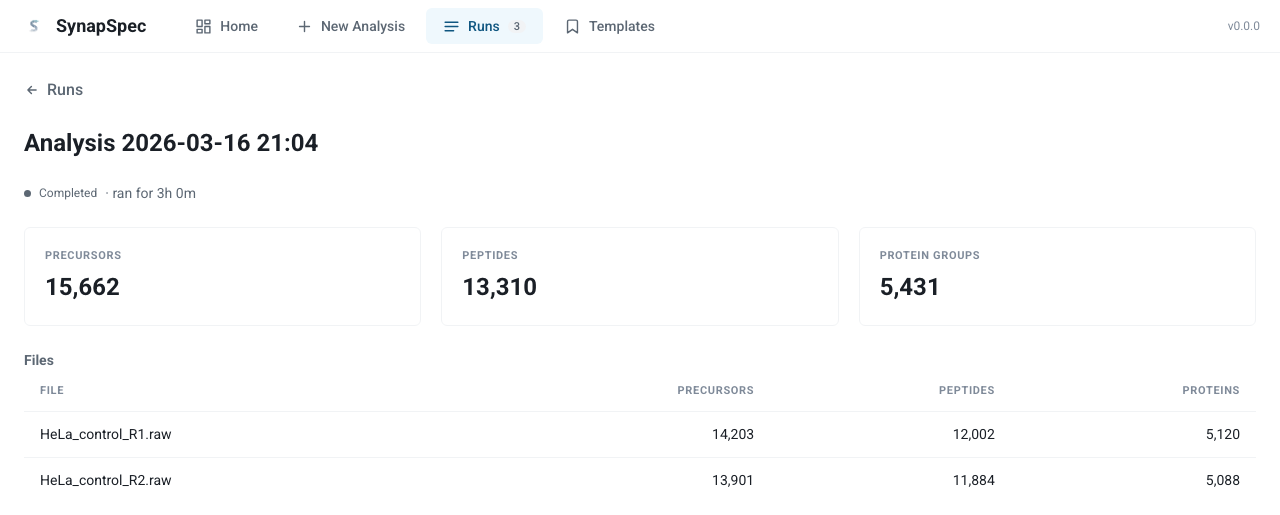
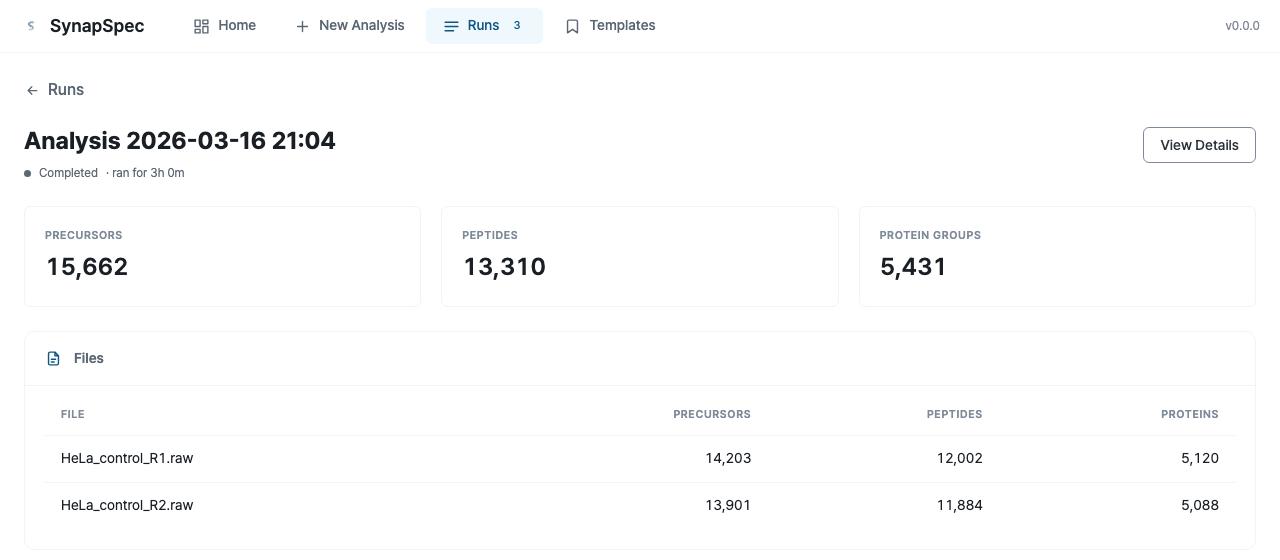
feat: recapture the hero screenshot from the pywebview window
히어로 이미지는 bion-design의 `snapshot-after`에서 온 NiceGUI 화면이었습니다. 앱이 pywebview와
React로 옮겨간 뒤의 `snapshot-pywebview/busy/1280px/runs-detail.png`로 바꿨습니다.

자르는 선을 515px에서 560px로 내렸습니다. 새 레이아웃에서는 파일별 수치가 카드 안에 있고
515px이 표 중간을 지납니다. 560px은 카드 아래에서 멈추고, 그 밑의 Output 카드에 있는 캡처
샌드박스의 절대 경로는 여전히 빠집니다.

AGENTS.md의 "히어로가 벤치마크 차트를 그린다"는 절은 9월 1일의 스크린샷 교체 이후 낡은
기록이었습니다. 히어로는 스냅샷의 복사본이고 다크 밴드만 실측 벤치마크라고 고쳐 적었습니다.

diff --git a/AGENTS.md b/AGENTS.md
@@ -70,18 +70,22 @@ Two live requirements lines are load-bearing and were lost once to one-line comp
 storage floor for data processing, and the 4 GB-per-thread memory note. `requirements` in
 `src/data/site.ts` keeps the live text line by line for that reason.
 
-## THE EXAMPLE RUN IS MEASURED, NOT DECORATIVE
+## THE HERO IS A SCREENSHOT, THE DARK BAND IS MEASURED
 
-The home hero and dark band use the newest LFQBench run in `src/data/benchmarks.json` (currently
-2026-07-22). `exampleRun` in `src/data/benchmarks.ts` derives every displayed value from that JSON;
-do not replace it with placeholder numbers or hand-drawn chart points.
+The hero image, `public/images/synapspec/run_detail.png`, is a copy of bion-design's
+`projects/synapspec/snapshot-pywebview/busy/1280px/runs-detail.png`, cut to its top 560px. Below
+that line the Output card shows the capture sandbox's absolute path, which is not for a public page.
+The counts in it are the capture fixture's, not a benchmark. Re-copy it after the app's snapshot is
+re-captured; nothing checks that they match.
 
-Three rules follow from using the real data:
+The dark band uses the newest LFQBench run in `src/data/benchmarks.json` (currently 2026-07-22).
+`exampleRun` in `src/data/benchmarks.ts` derives every displayed value from that JSON; do not
+replace it with placeholder numbers.
 
-- **There is no FDR field.** The third tile uses the largest absolute median log₂-ratio deviation
-  from the run's accuracy data.
-- **The chart suppresses its zero.** Per-file precursor counts span only a narrow range, so the
-  window states the exact range alongside the chart.
+Two rules follow from using the real data:
+
+- **There is no FDR field.** The proposal's FDR tile became the largest absolute median
+  log₂-ratio deviation from the run's accuracy data.
 - **The run was on a `c7i.8xlarge`.** The footnote names that AWS instance; it must not imply that
   all processing is local or that the result came from a workstation.
 
